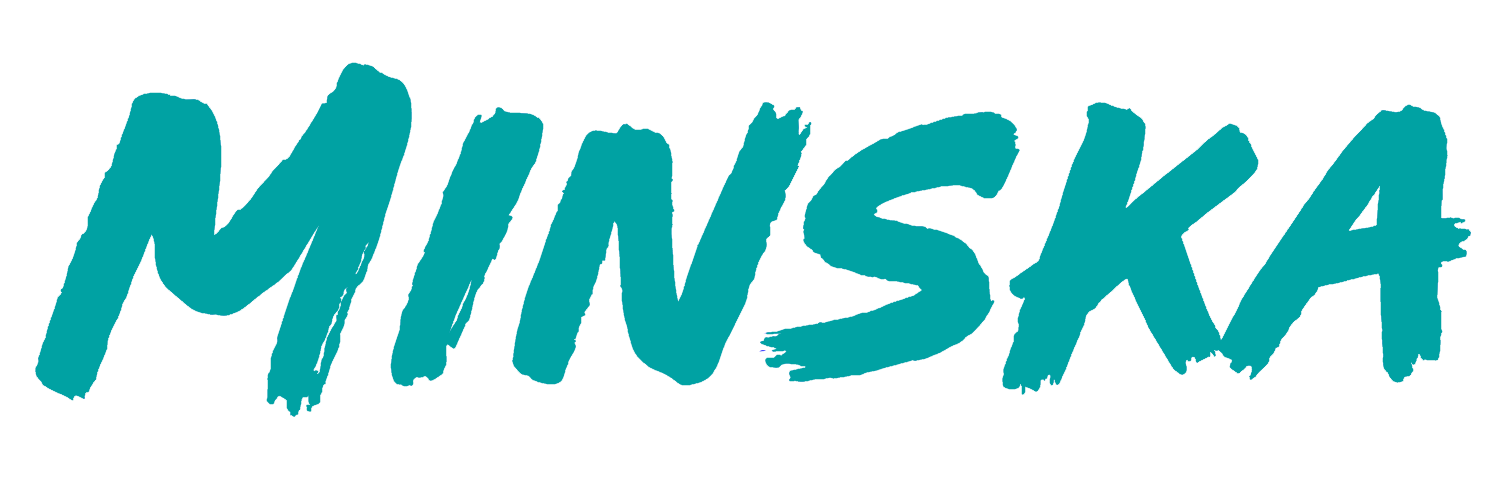
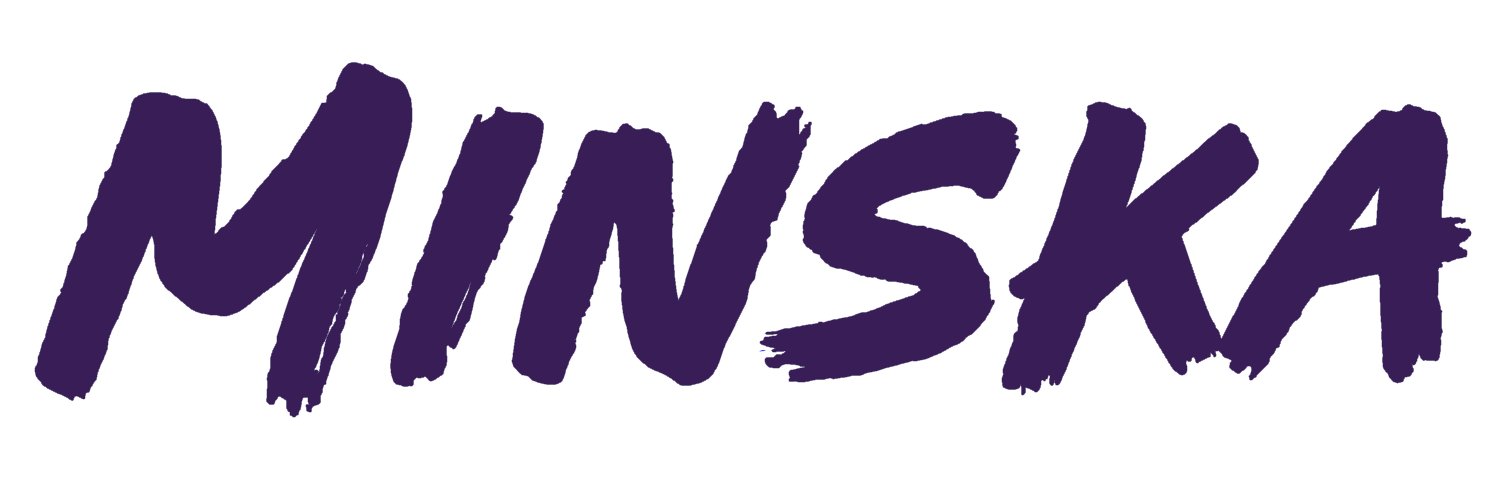
Improooooovvvveeee m8

diff --git a/src/views/Unsecure/Home.vue b/src/views/Unsecure/Home.vue
@@ -1,7 +1,7 @@
 <template>
     <v-container class="text-xs-center">
 
-        <v-img :src="titleImg" aspect-ratio="1.7" contain></v-img>
+        <v-img :src="require('@/media/title_color.png')" :lazy-src="require('@/media/title_color_low.png')" aspect-ratio="1.7" contain></v-img>
 
         <h1>{{ $t('title') }}</h1>
         <p>{{ $t('subtitle') }}</p>
@@ -34,12 +34,6 @@ export default {
                 login: 'Anmelden',
                 register: 'Account erstellen'
             }
-        }
-    },
-
-    computed: {
-        titleImg () {
-            return require('@/media/title_color_small.png')
         }
     }
 

diff --git a/src/components/Shared/Toolbar.vue b/src/components/Shared/Toolbar.vue
@@ -15,7 +15,6 @@
                 </v-flex>
             </v-layout>
 
-
     </v-toolbar>
 </template>
 
